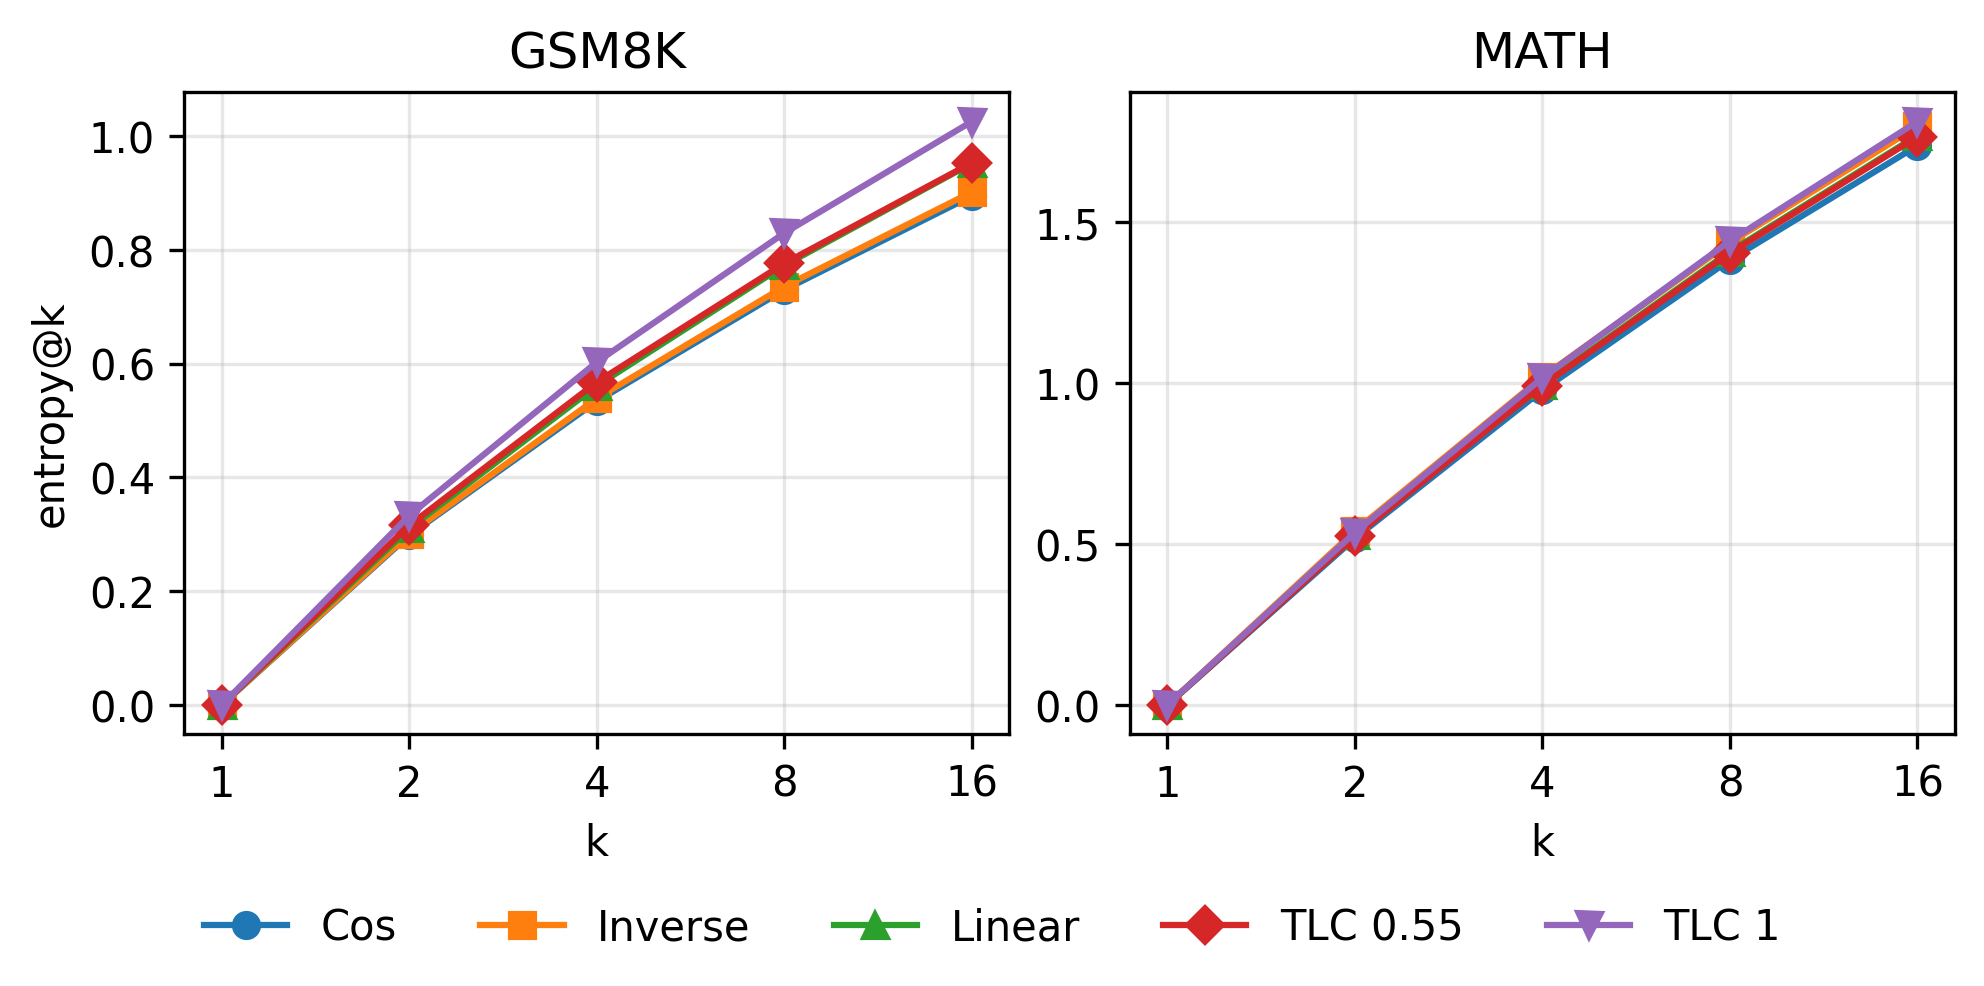
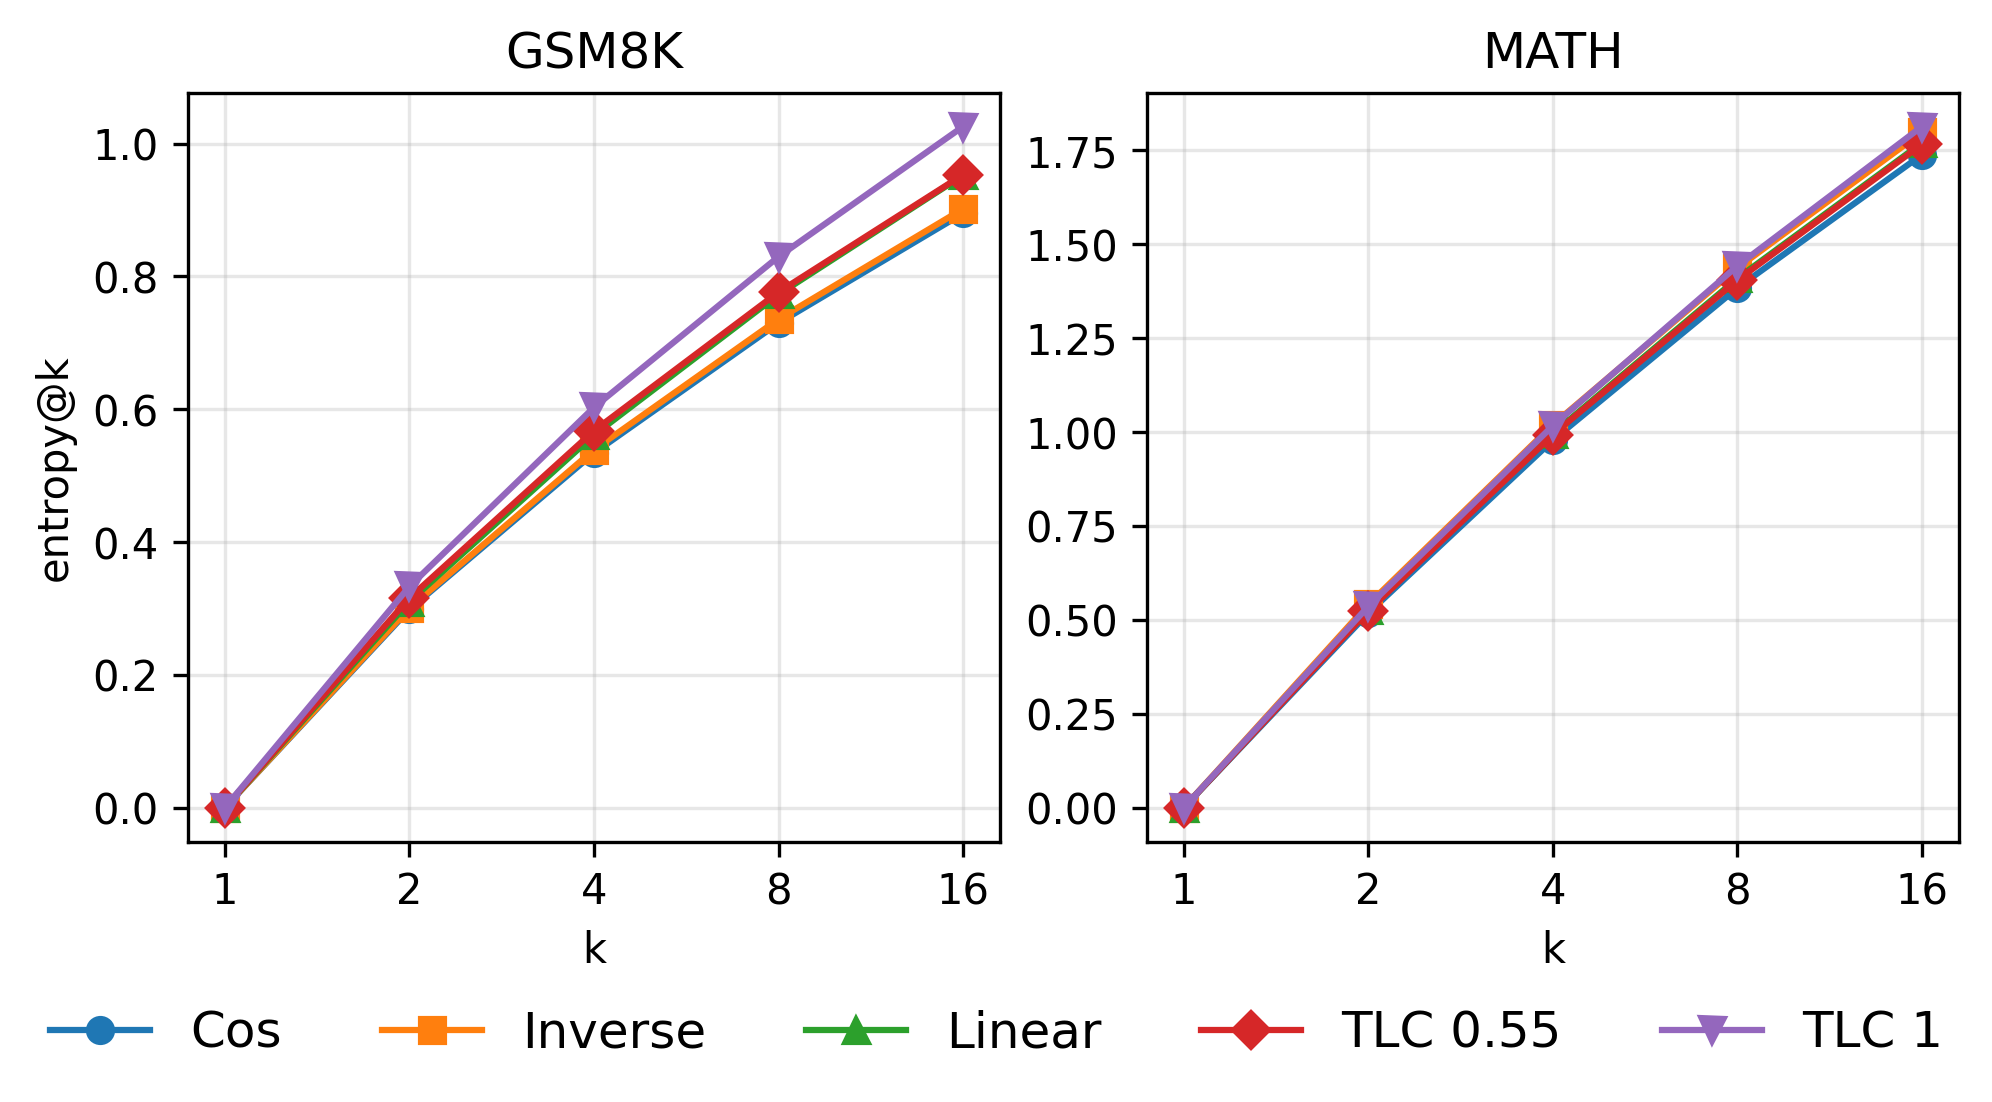
fixed legend font size

diff --git a/analysis.py b/analysis.py
@@ -72,7 +72,7 @@ def graph_entropy_k_data(per_seed, ):
     avg = per_seed.groupby(['dataset', 'method']).mean()
     datasets = avg.index.get_level_values("dataset").unique()
 
-    fig, ax = plt.subplots(1, 2, figsize=(6.5, 3.2), layout="constrained")
+    fig, ax = plt.subplots(1, 2, figsize=(6.5, 3.6), layout="constrained")
     for i, dataset in enumerate(datasets):
         markers = cycle(markers_)
         for method in avg.loc[dataset].index:
@@ -90,7 +90,7 @@ def graph_entropy_k_data(per_seed, ):
             ax[i].set_axisbelow(True)
 
     h, l = ax[0].get_legend_handles_labels()
-    fig.legend(h, l, loc="outside lower center", ncol=6, frameon=False)
+    fig.legend(h, l, loc="outside lower center", ncol=6, frameon=False, fontsize=12)
     ax[0].set_ylabel("entropy@k")
     fig.savefig("entropy_at_k.png", dpi=300, bbox_inches="tight")
     plt.close(fig)
@@ -99,7 +99,7 @@ def graph_pass_k_data(per_seed, per_execution):
     avg = per_seed.groupby(['dataset', 'method']).mean()
     datasets = list(avg.index.get_level_values("dataset").unique()) + list(per_execution.index.get_level_values("dataset").unique())
 
-    fig, ax = plt.subplots(1, 4, figsize=(14, 3.6), layout="constrained")
+    fig, ax = plt.subplots(1, 4, figsize=(14, 4.0), layout="constrained")
     for i, dataset in enumerate(datasets):
         markers = cycle(markers_)
         src = avg if dataset in avg.index.get_level_values("dataset") else per_execution
@@ -120,7 +120,7 @@ def graph_pass_k_data(per_seed, per_execution):
             ax[i].set_axisbelow(True)
 
     h, l = ax[0].get_legend_handles_labels()
-    fig.legend(h, l, loc="outside lower center", ncol=6, frameon=False)
+    fig.legend(h, l, loc="outside lower center", ncol=6, frameon=False, fontsize=14)
     ax[0].set_ylabel("pass@k")
     fig.savefig("pass_at_k.png", dpi=300, bbox_inches="tight")
     plt.close(fig)
